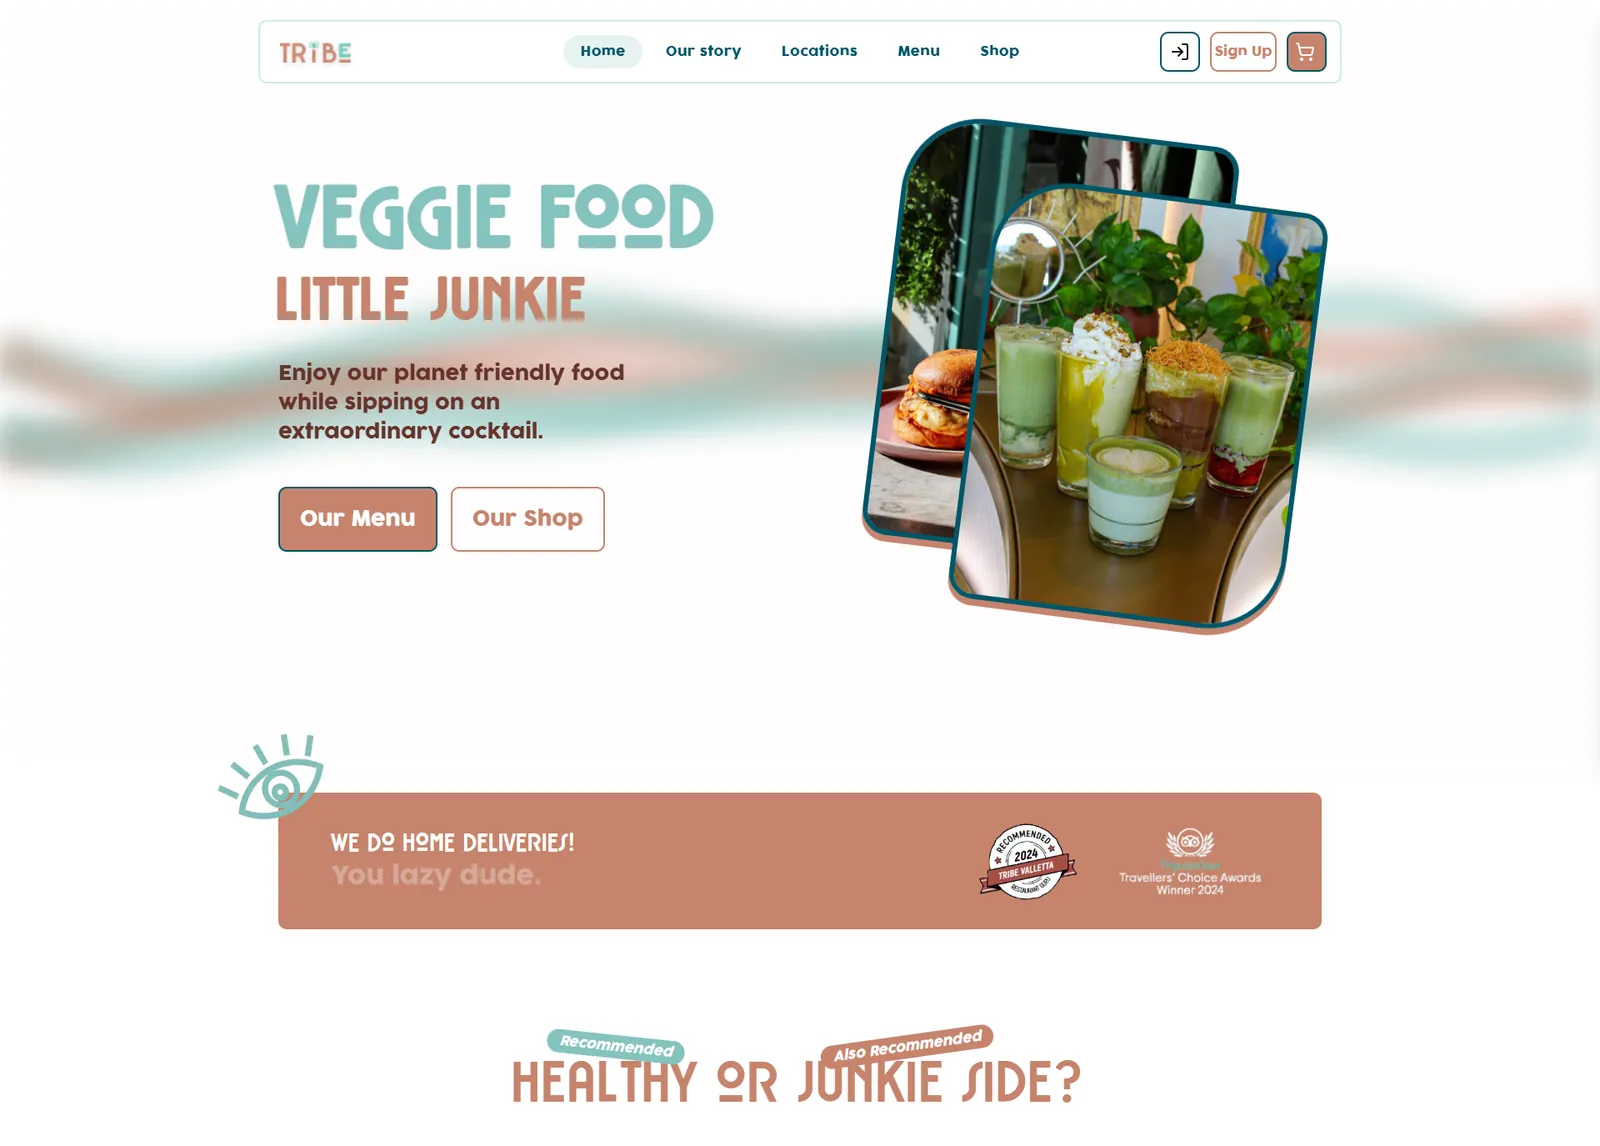
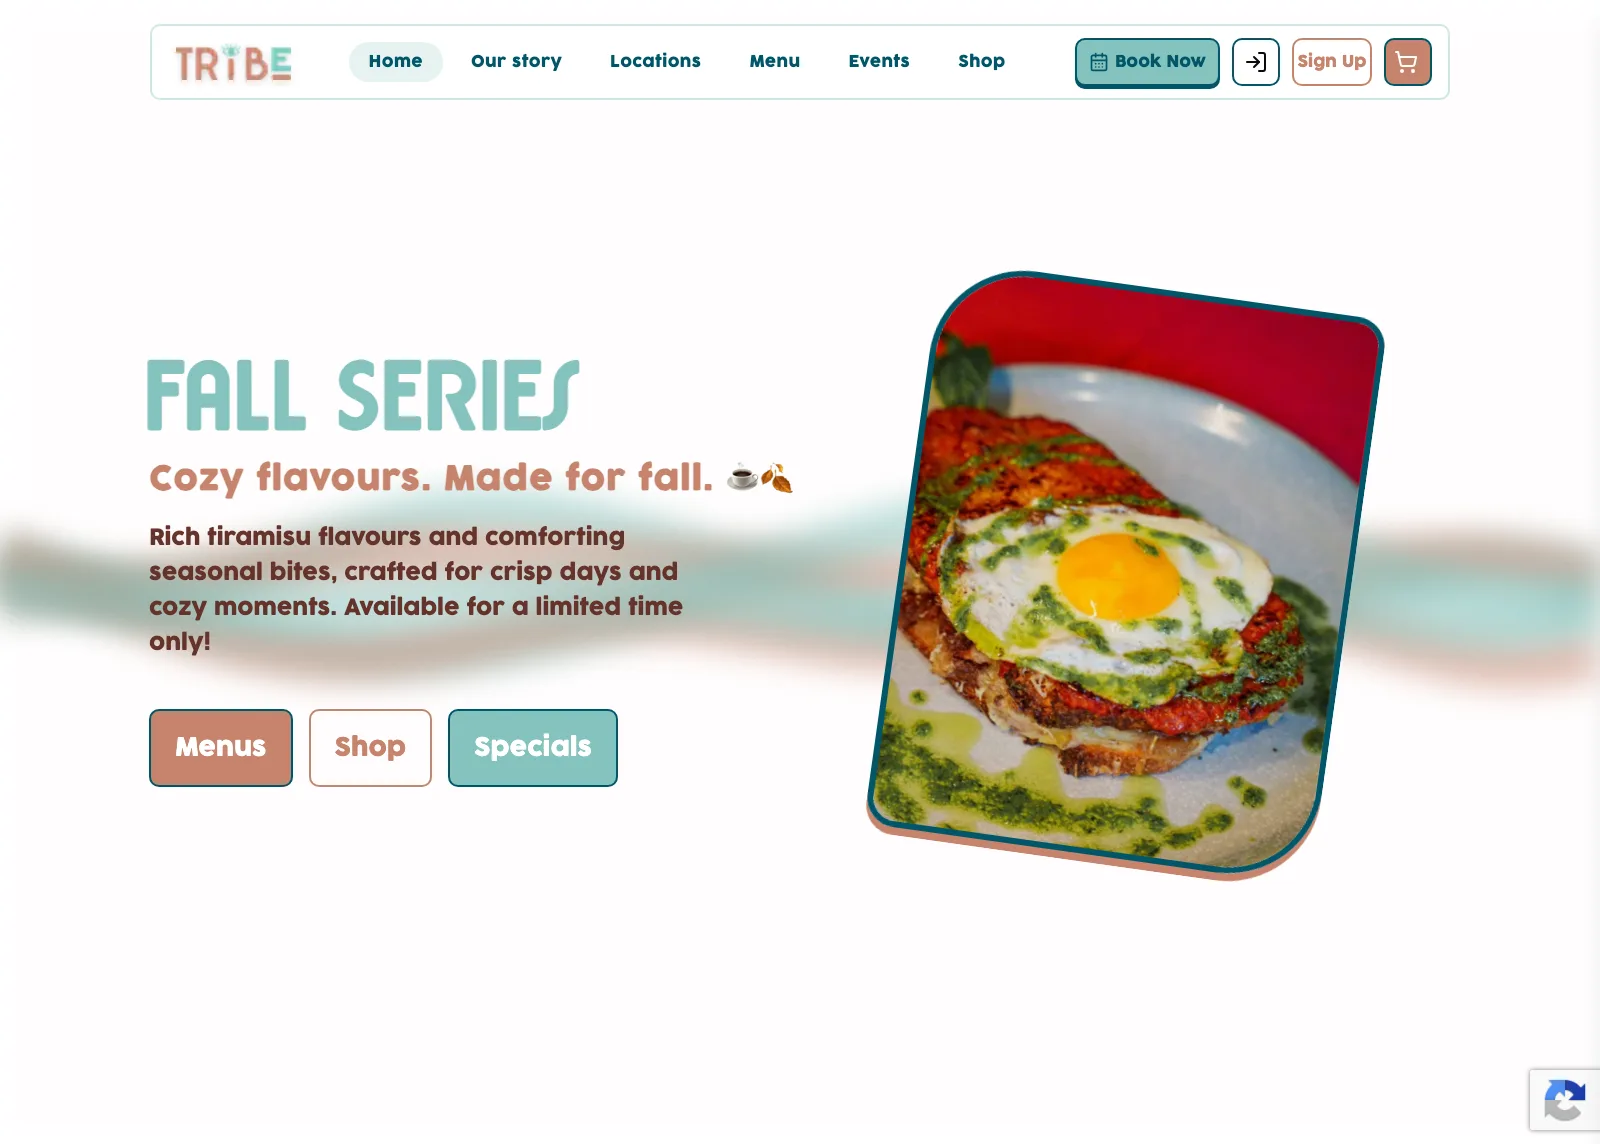
further updates to the projects

diff --git a/src/constants/projects.ts b/src/constants/projects.ts
@@ -1,3 +1,5 @@
+export type ProjectImage = { src: string; alt: string };
+
 export type Project = {
   title: string;
   /** The project's page lives at `/work/<slug>`. */
@@ -6,6 +8,8 @@ export type Project = {
   kind: string;
   src: string;
   alt: string;
+  /** More screenshots, shown after `src` as a carousel on the project page. */
+  gallery?: ProjectImage[];
   /** The live site, or "/" for a system with no public link. */
   href: string;
   description: string;
@@ -132,6 +136,20 @@ export const projects: Project[] = [
     kind: "Bakery website and online ordering",
     src: "/images/projects/fuwamai.webp",
     alt: "Screenshot of the website for Fuwamai, a Japanese soufflé pancake bakery in Malta",
+    gallery: [
+      {
+        src: "/images/projects/fuwamai-menu.webp",
+        alt: "Screenshot of the Fuwamai menu page, showing the soufflé pancakes",
+      },
+      {
+        src: "/images/projects/fuwamai-about.webp",
+        alt: "Screenshot of the Fuwamai about page, titled Malta's first soufflé bakery",
+      },
+      {
+        src: "/images/projects/fuwamai-franchise.webp",
+        alt: "Screenshot of the Fuwamai franchise page",
+      },
+    ],
     href: "https://fuwamai.com",
     description:
       "The website for Fuwamai, Malta's first Japanese soufflé pancake bakery, rebuilt in Next.js with a full menu and online ordering for pickup and delivery.",
@@ -185,20 +203,37 @@ export const projects: Project[] = [
   {
     title: "Tribe Malta",
     slug: "tribe-malta",
-    kind: "Restaurant website",
+    kind: "Restaurant website and online shop",
     src: "/images/projects/tribe.webp",
-    alt: "Screenshot of the website for Tribe, a restaurant in Malta",
+    alt: "Screenshot of the website for TRiBE, an all-day breakfast, brunch and cocktail restaurant group in Malta",
+    gallery: [
+      {
+        src: "/images/projects/tribe-menu.webp",
+        alt: "Screenshot of the TRiBE menu page for the Balluta location, with its allergen key",
+      },
+      {
+        src: "/images/projects/tribe-shop.webp",
+        alt: "Screenshot of the TRiBE online shop, listing pastries, cakes and merch",
+      },
+      {
+        src: "/images/projects/tribe-locations.webp",
+        alt: "Screenshot of the TRiBE locations page, listing its restaurants in Malta",
+      },
+    ],
     href: "https://tribemalta.com",
     description:
-      "The website for Tribe, a restaurant in Malta, with Stripe payments and a CMS for managing the site's content.",
+      "The website for TRiBE, an all-day breakfast, brunch and cocktail restaurant group in Malta and the UK, with per-location menus, table bookings, an online shop and a CMS behind it.",
     overview: [
-      "The website for Tribe, a restaurant in Malta.",
+      "The website for TRiBE, an all-day breakfast, brunch and cocktail restaurant group with five locations in Malta and one in the United Kingdom. Visitors pick their country, then browse each location's menu, book a table, enquire about event catering or order from the online shop.",
       "It takes payments through a Stripe integration and includes a CMS for managing the website. It is built with Next.js and TypeScript on PostgreSQL and Prisma, deployed on Vercel.",
     ],
     highlights: [
-      "Stripe integration for payments",
+      "Separate Malta and UK sites behind a country chooser",
+      "Menus per location, with an allergen key",
+      "Online shop for pastries, cakes and merch, with Stripe payments",
+      "Table bookings and event catering enquiries",
+      "Customer accounts, with Google sign-in",
       "CMS for managing the website",
-      "Custom Next.js build on PostgreSQL and Prisma",
     ],
     stack: [
       "Next.js",
@@ -207,6 +242,7 @@ export const projects: Project[] = [
       "PostgreSQL",
       "Prisma",
       "TypeScript",
+      "NextAuth",
       "Stripe",
     ],
   },

diff --git a/src/components/project-carousel.tsx b/src/components/project-carousel.tsx
@@ -1,0 +1,59 @@
+"use client";
+import Image from "next/image";
+import React, { useEffect, useState } from "react";
+import type { ProjectImage } from "@/constants/projects";
+
+const INTERVAL = 4000;
+
+/** Cross-fades through a project's screenshots, one every few seconds. */
+export const ProjectCarousel = ({ images }: { images: ProjectImage[] }) => {
+  const [active, setActive] = useState(0);
+  const [paused, setPaused] = useState(false);
+
+  useEffect(() => {
+    if (paused) return;
+    if (window.matchMedia("(prefers-reduced-motion: reduce)").matches) return;
+    const timer = window.setInterval(
+      () => setActive((current) => (current + 1) % images.length),
+      INTERVAL,
+    );
+    return () => window.clearInterval(timer);
+  }, [paused, images.length]);
+
+  return (
+    <div
+      className="carousel"
+      onMouseEnter={() => setPaused(true)}
+      onMouseLeave={() => setPaused(false)}
+      onFocus={() => setPaused(true)}
+      onBlur={() => setPaused(false)}
+    >
+      <div className="carousel__slides">
+        {images.map((image, index) => (
+          <Image
+            key={image.src}
+            src={image.src}
+            alt={image.alt}
+            width={1200}
+            height={857}
+            sizes="(min-width: 960px) 46vw, 100vw"
+            priority={index === 0}
+            aria-hidden={index !== active}
+            data-active={index === active || undefined}
+          />
+        ))}
+      </div>
+      <div className="carousel__dots">
+        {images.map((image, index) => (
+          <button
+            key={image.src}
+            type="button"
+            aria-label={`Show screenshot ${index + 1} of ${images.length}`}
+            aria-current={index === active || undefined}
+            onClick={() => setActive(index)}
+          />
+        ))}
+      </div>
+    </div>
+  );
+};

diff --git a/src/app/work/[slug]/page.tsx b/src/app/work/[slug]/page.tsx
@@ -3,6 +3,7 @@ import Image from "next/image";
 import Link from "next/link";
 import { notFound } from "next/navigation";
 import { JsonLd } from "@/components/json-ld";
+import { ProjectCarousel } from "@/components/project-carousel";
 import { hostOf, isExternal, projects } from "@/constants/projects";
 import { pageMetadata } from "@/lib/metadata";
 import { projectJsonLd, projectPath } from "@/lib/structured-data";
@@ -107,14 +108,23 @@ export default async function ProjectPage({ params }: Props) {
         </div>
 
         <figure className="case__media">
-          <Image
-            src={project.src}
-            alt={project.alt}
-            width={1200}
-            height={857}
-            sizes="(min-width: 960px) 46vw, 100vw"
-            priority
-          />
+          {project.gallery ? (
+            <ProjectCarousel
+              images={[
+                { src: project.src, alt: project.alt },
+                ...project.gallery,
+              ]}
+            />
+          ) : (
+            <Image
+              src={project.src}
+              alt={project.alt}
+              width={1200}
+              height={857}
+              sizes="(min-width: 960px) 46vw, 100vw"
+              priority
+            />
+          )}
           <figcaption className="mono">
             {external ? hostOf(project.href) : "Internal system"}
           </figcaption>

diff --git a/src/app/globals.css b/src/app/globals.css
@@ -1682,6 +1682,48 @@ a.tag {
   object-fit: cover;
 }
 
+.carousel__slides {
+  display: grid;
+}
+
+.carousel__slides img {
+  grid-area: 1 / 1;
+  opacity: 0;
+  transition: opacity 0.8s var(--ease);
+}
+
+.carousel__slides img[data-active] {
+  opacity: 1;
+}
+
+.carousel__dots {
+  display: flex;
+  justify-content: center;
+  gap: 2px;
+  margin-top: 6px;
+}
+
+/* The dot is drawn small inside a larger hit area. */
+.carousel__dots button {
+  display: grid;
+  place-items: center;
+  width: 20px;
+  height: 20px;
+}
+
+.carousel__dots button::before {
+  content: "";
+  width: 6px;
+  height: 6px;
+  border-radius: 50%;
+  background: var(--line-strong);
+  transition: background 0.3s;
+}
+
+.carousel__dots button[aria-current]::before {
+  background: var(--accent);
+}
+
 .case__media figcaption {
   margin-top: 6px;
   color: var(--faint);
